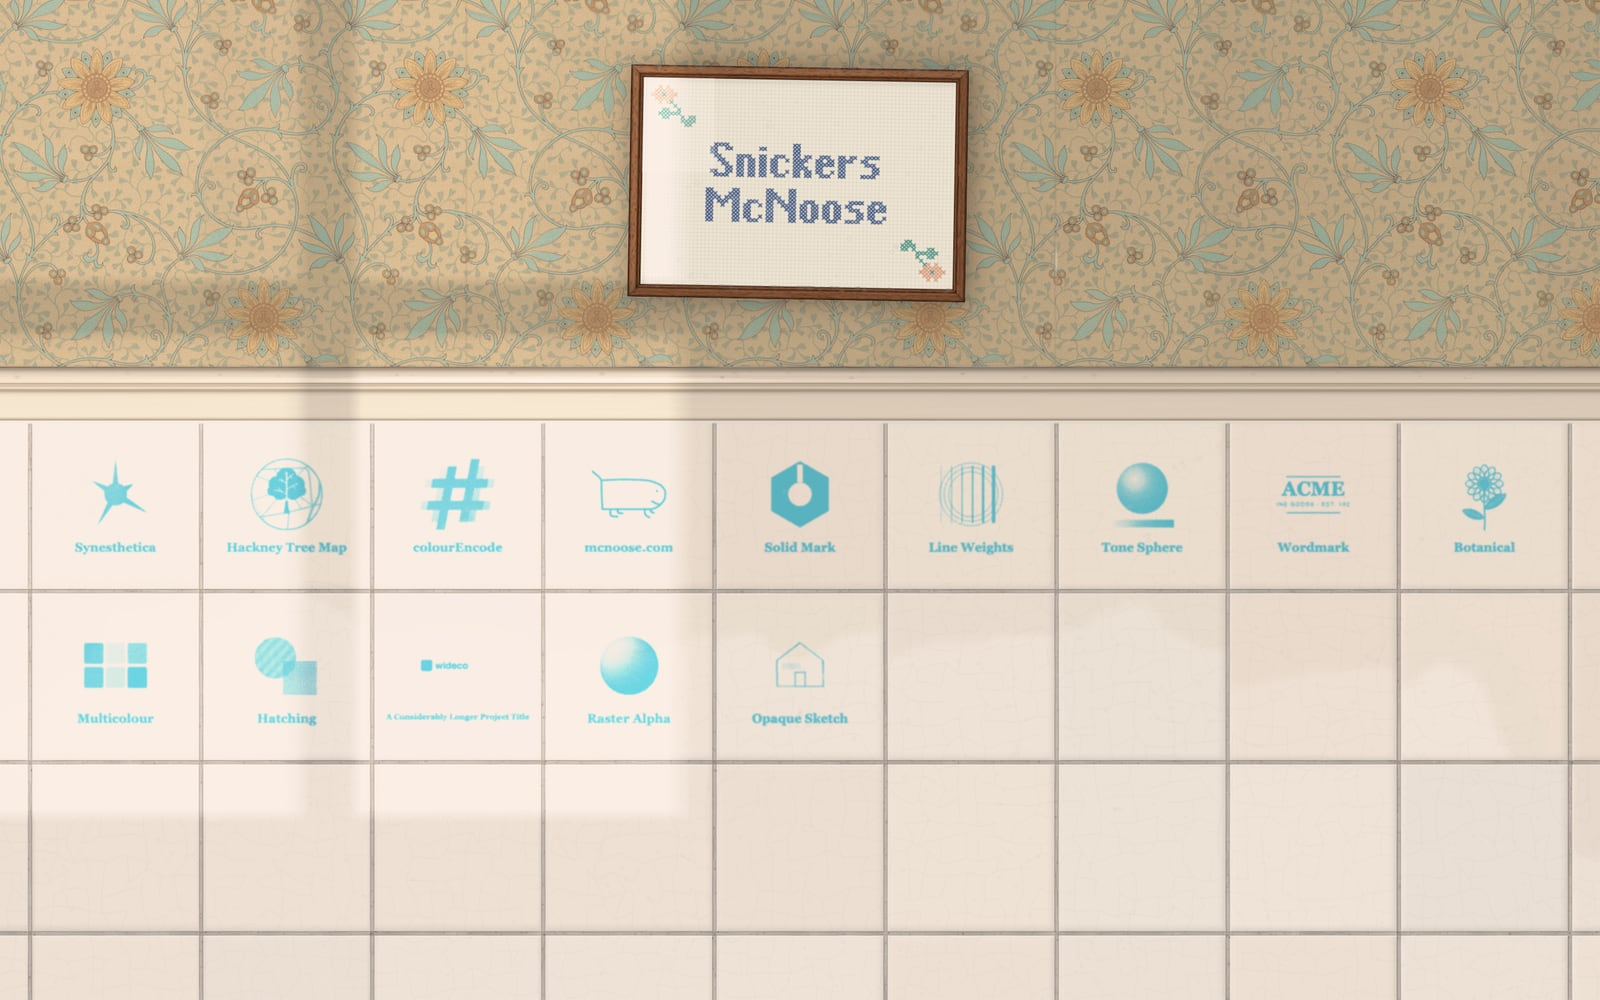
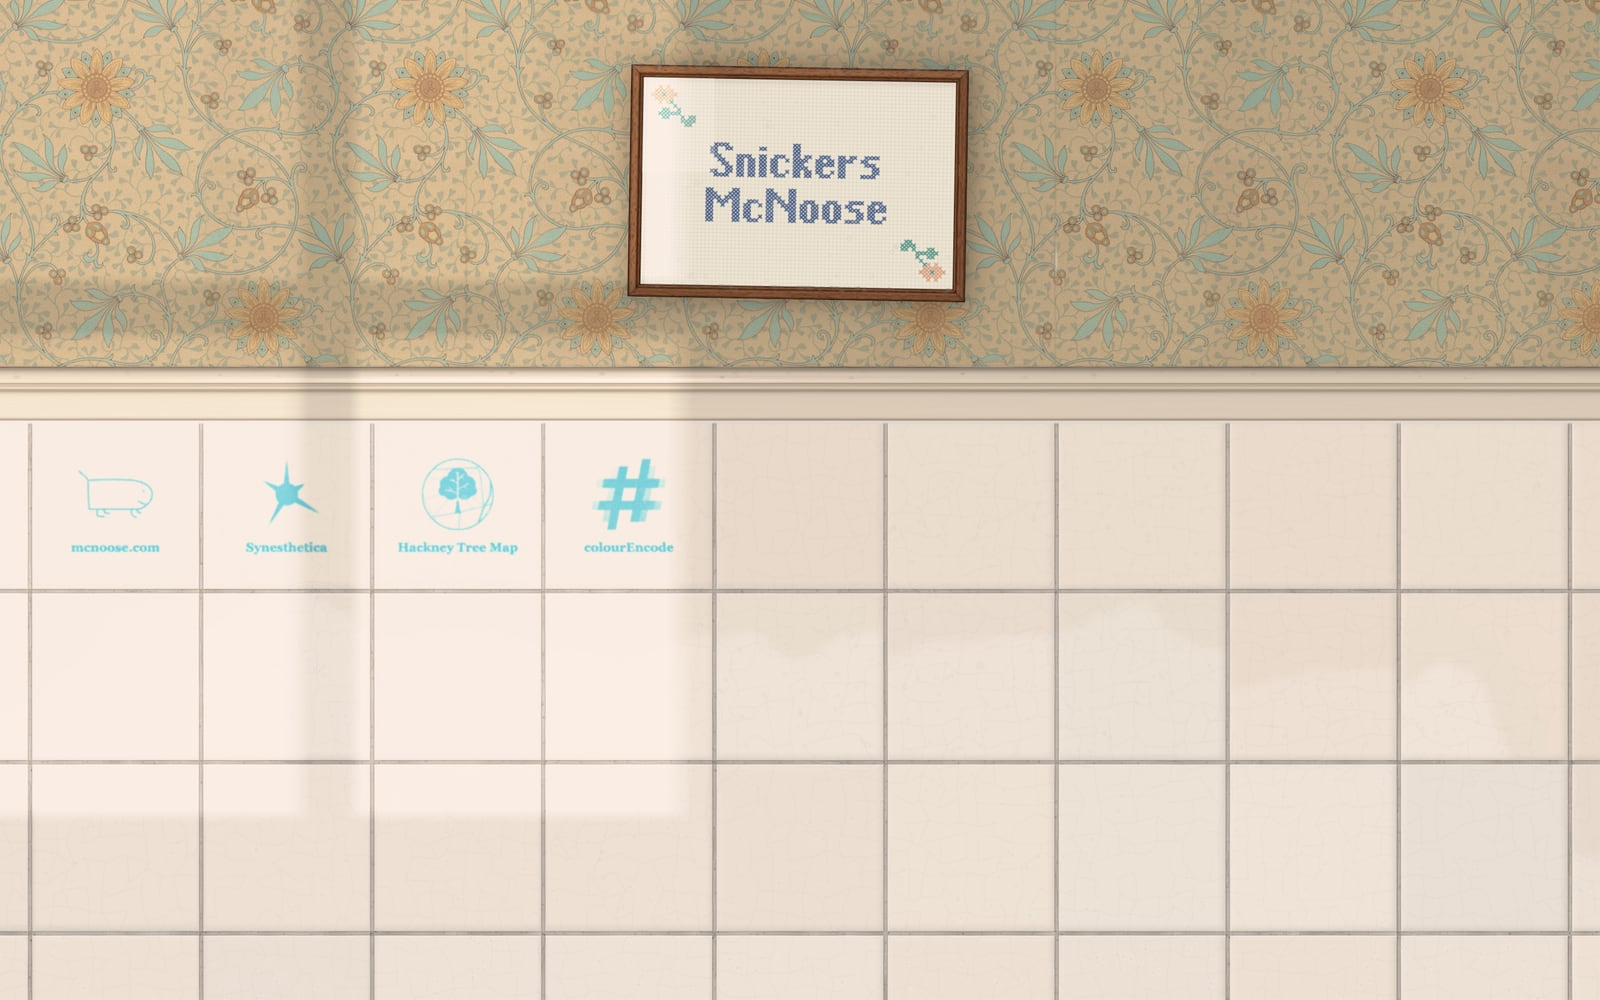
edited the project readme, tweaked the scene and added real projects

diff --git a/src/config.ts b/src/config.ts
@@ -109,8 +109,8 @@ export const CONFIG = {
   EMBROIDERY_SWING_DAMPING: 0.3, // let go, it swings back: 0 = swings on and on, 1 = settles without swinging
   EMBROIDERY_SWING_STICK_DEG: 2.5, // how far off its rest the hanger's friction can hold it
   EMBROIDERY_BRUSH: true, // the mouse brushing onto the frame nudges it, as if it held it for a moment
-  EMBROIDERY_BRUSH_MS: 20, // how long that moment is: longer, a bigger nudge
-  EMBROIDERY_BRUSH_RATIO: 4, // mouse movement per unit of frame movement while brushing: 1 = follows the pointer, 100 = barely moves
+  EMBROIDERY_BRUSH_MS: 5, // how long that moment is: longer, a bigger nudge
+  EMBROIDERY_BRUSH_RATIO: 100, // mouse movement per unit of frame movement while brushing: 1 = follows the pointer, 100 = barely moves
   EMBROIDERY_FALL: true, // experiment: let go (or swung) past EMBROIDERY_FALL_DEG, it falls off the wall
   EMBROIDERY_FALL_DEG: 40, // the angle past which it slips off its nail
   EMBROIDERY_FALL_GRAVITY: 0.63, // 1 = real gravity at the room's scale; lower = slow motion
@@ -192,8 +192,8 @@ export const CONFIG = {
 
   // Tiles: ageing (crazing, dried water marks)
   TILE_CRAZING: 0.26, // hairline crack network in the old glaze
-  TILE_SPOTS: 0.12, // dried water marks on tiles high up
-  TILE_SPOTS_LOW: 0.6, // … and on the bottom row
+  TILE_SPOTS: 0.62, // dried water marks on tiles high up
+  TILE_SPOTS_LOW: 0.47, // … and on the bottom row
   TILE_LIMESCALE: 0.7, // limescale reached on the bottom row
   TILE_GRIME_ROWS: 5, // how many rows up from the skirting the marks build
 

diff --git a/README.md b/README.md
@@ -1,30 +1,26 @@
 # mcnoose.com
 
-My portfolio site. It's a bathroom wall: old wallpaper with a framed cross-stitch sampler, a painted dado rail, white tiles with a project printed on each, and a skirting board at the bottom.
+My portfolio site — a bathroom wall. I wanted the scene to feel alive. Most of the work went into lighting and ageing it, and introducing subtle interactions.
 
 <a href="https://mcnoose.com" target="_blank" rel="noopener noreferrer">It's here.</a> Desktop is best, but it works on phones too.
 
 ![The wall](docs/readme/wall.jpg)
 
-## Intent
-
-I wanted a scene that felt alive, not a picture of one. A real wall is lit by something, so its light changes, it has aged, and it responds when you touch it. Most of the work went into making those things true of this one, so that each part of it looks like it belongs in the same room.
-
 ## How it works
 
 ### Simulating the room
 
-There is one room, defined in centimetres (`src/room.ts`): a window on the wall behind you, a ceiling light, and light bouncing up off the floor. Every surface works out its own shading from its own position on the wall, so the wallpaper, the frame, each tile, and each length of rail and skirting are lit slightly differently from their neighbours. Nothing has highlights or shadows painted on.
+The room is defined in centimetres (`src/room.ts`) with a window on the wall behind you, a ceiling light, and light bouncing up off the floor. Every surface works out its own shading from its own position on the wall, so the wallpaper, the frame, each tile, and each length of rail and skirting are lit slightly differently from their neighbours. Nothing has highlights or shadows painted on.
 
-The light moves. Clouds pass the window at random, which you mostly see in the reflections. The sun throws the window's panes onto the wall as a soft patch. Over the first few minutes of a visit the sun sets: the light warms, the patch climbs the wall, and the room settles at dusk.
+The light moves. Clouds pass the window at random, which you mostly see in the reflections. The sun throws a soft patch of light onto the wall. The patch moves and warms for a few minutes as the sun sets. The room settles at dusk.
 
-Reflections come from the same window. The sampler's glass reflects it by mirror geometry, and it slides with parallax as you scroll. Each tile traces the room through its own slight tilt and waviness, so no two reflect quite the same thing.
+Reflections come from the same window. They slide with parallax as you scroll. Each tile traces the room through its own slight tilt and waviness, so no two reflect quite the same thing.
 
-It has also aged. The wallpaper has yellowed, with a clean patch behind the frame and grime around it, and seams that have lifted and torn a little. The tiles are crazed, with dried water marks and limescale. The grout is discoloured and in places mouldy. Dust sits on the rail and skirting, and the skirting is scuffed where shoes have hit it.
+The wallpaper has yellowed, with a cleaner patch behind the frame and grime around it, and seams that have lifted and torn a little. The tiles are crazed, with dried water marks and limescale. The grout is discoloured and in places mouldy. Dust sits on the rail and skirting, and the skirting is scuffed by shoes.
 
 ### Controls
 
-Every value that shapes the scene is a constant in `src/config.ts`, about 200 of them. In development, a panel (lil-gui) gives each one a slider. I tuned the scene by eye with that panel, and saving writes the values back into the source. Most of the design happened this way.
+Every value that shapes the scene is a constant in `src/config.ts`, about 200 of them. In development, a panel (lil-gui) gives each one a slider. I tuned the scene by eye with that panel. Most of the design happened this way.
 
 ### Generating the site
 
@@ -34,24 +30,23 @@ Every value that shapes the scene is a constant in `src/config.ts`, about 200 of
 
 Only the wallpaper is baked. The room itself still runs in the browser, so lighting, clouds, the sunset and reflections are computed live on canvas.
 
-The wall isn't responsive. It's anchored once, and resizing the window shows more or less of it rather than rearranging it. On desktop it's also pinned to your physical screen: move the browser window and you're looking at a different part of the same wall, and the reflections shift as they would. Projects only go on tiles that are fully in view, so they re-flow, with a crossfade, when the visible tiles change.
+The wall isn't responsive. It stays in place, as if you're looking at it through a portal. Resizing or moving the window affects what you can see, but the wall keeps a fixed position and isn't rearranged. This is only evident on desktop.
+
+Projects appear on wall tiles and reflow onto what's visible as you look around the room.
 
 ### Interactions
 
-They're meant to be found rather than announced.
+I wanted the cross-stitch embroidery frame to be evidently interactive because my contact details are on a handwritten note on the back. Moving over it with the mouse tilts it slightly, as if you bumped it. Clicking on it flips it over. Clicking and dragging tilts it on its nail. Drag physics is applied and the frame falls off the wall if you angle it too far.
 
-- Drag across the rail or skirting with the mouse to wipe the dust off. Limescale on the tiles takes a few passes.
-- Click the sampler to turn it over. The note on the back is in my handwriting.
-- Drag the sampler and it turns on its nail, then swings back and settles like a pendulum. Its reflection stays put while the frame moves. Swing it too far and it falls off the wall.
-- Hover a tile to see the project's logo in its own colours instead of printed.
+You can also clean the space a little. Dust is easy to wipe off. Limescale requires more persistence.
 
 ### Printed projects
 
-Each logo is printed onto its tile as a halftone. The dots come from <a href="https://github.com/nicc/halftone-print" target="_blank" rel="noopener noreferrer">halftone-print</a>, a small package I wrote for this. Darker, more opaque parts of a logo print more ink.
+Each logo is printed onto its tile as a halftone. The dots come from <a href="https://github.com/nicc/halftone-print" target="_blank" rel="noopener noreferrer">halftone-print</a>, a small package made for this project. Darker, more opaque parts of a logo print more ink.
 
 ## Stack
 
-TypeScript and Canvas 2D, with no framework, built by Vite. Tests are Vitest for units and Playwright for end-to-end runs in Chromium, Firefox and WebKit, plus phone emulation. Screenshots (`npm run shots`) were how I checked visual changes.
+TypeScript and Canvas 2D, with no framework, built by Vite. Tests are Vitest for units and Playwright for end-to-end runs in Chromium, Firefox and WebKit, plus phone emulation. Screenshots (`npm run shots`) are for checking visual changes.
 
 ## Development
 
@@ -61,7 +56,7 @@ npm run dev        # with the tweak panel
 npm test
 npm run test:e2e
 npm run shots      # screenshots of the wall and each tile, in shots/
-npm run readme:wall  # the picture at the top of this README
+npm run readme:wall  # regenerate the picture at the top of this README
 npm run build
 ```
 
@@ -79,11 +74,11 @@ Logos are SVG or PNG on the same site.
 
 ## The about note
 
-The note on the back of the sampler is real handwriting, cut from a photo. Put the photo at `note-src/note-photo.png` (kept out of git), set which lines to keep in `tools/prepare-note.py`, and run `python3 tools/prepare-note.py` (numpy, scipy, Pillow). It writes ink-only line images and their layout to `src/about/`.
+The note on the back of the embroidery frame is real handwriting, cut from a photo. Put the photo at `note-src/note-photo.png` (kept out of git), set which lines to keep in `tools/prepare-note.py`, and run `python3 tools/prepare-note.py` (numpy, scipy, Pillow). It writes ink-only line images and their layout to `src/about/`.
 
 ## Deployment
 
-Upload the contents of `dist/` (`index.html`, `projects.json`, `logos/`) to any static host. It has to be served over http(s). Opening `index.html` from disk won't load the projects.
+Build, then upload the contents of `dist/` (`index.html`, `projects.json`, `logos/`) to any static host. It has to be served over http(s). Opening `index.html` from disk won't load the projects.
 
 ## Acknowledgements / built with
 
@@ -91,6 +86,6 @@ Upload the contents of `dist/` (`index.html`, `projects.json`, `logos/`) to any 
 - The wallpaper is a scan of a sidewall from about 1875 in the <a href="https://www.si.edu/object/sidewall:chndm_1939-45-7-a_b" target="_blank" rel="noopener noreferrer">Cooper Hewitt, Smithsonian Design Museum</a> collection (1939-45-7), released under CC0.
 - <a href="https://github.com/nicc/halftone-print" target="_blank" rel="noopener noreferrer">halftone-print</a> prints the halftones.
 - <a href="https://vite.dev" target="_blank" rel="noopener noreferrer">Vite</a> and <a href="https://github.com/richardtallent/vite-plugin-singlefile" target="_blank" rel="noopener noreferrer">vite-plugin-singlefile</a> do the build.
-- <a href="https://lil-gui.georgealways.com" target="_blank" rel="noopener noreferrer">lil-gui</a> is the tweak panel.
+- <a href="https://lil-gui.georgealways.com" target="_blank" rel="noopener noreferrer">lil-gui</a> runs the tweak panel.
 - <a href="https://sharp.pixelplumbing.com" target="_blank" rel="noopener noreferrer">sharp</a> prepares and bakes the wallpaper.
 - <a href="https://playwright.dev" target="_blank" rel="noopener noreferrer">Playwright</a> and <a href="https://vitest.dev" target="_blank" rel="noopener noreferrer">Vitest</a> run the tests.
